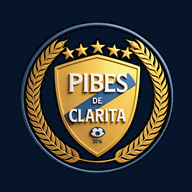
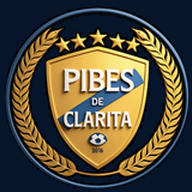
Add files via upload

diff --git a/index.html b/index.html
@@ -6,7 +6,7 @@
 <title>Los Pibes de Clarita | Pasión que nos une</title>
 <link rel="preconnect" href="https://fonts.googleapis.com"><link rel="preconnect" href="https://fonts.gstatic.com" crossorigin><link href="https://fonts.googleapis.com/css2?family=Barlow+Condensed:wght@500;600;700;800;900&family=DM+Sans:wght@400;500;600;700&display=swap" rel="stylesheet">
 <style>
-:root{--navy:#07152b;--blue:#0756c9;--blue2:#0879ff;--gold:#f4ba38;--cream:#f5f6f8;--ink:#121a29;--muted:#758096}*{box-sizing:border-box}html{scroll-behavior:smooth}body{margin:0;font-family:'DM Sans',sans-serif;color:var(--ink);background:#fff}body:after{content:"";position:fixed;inset:0;background:url("images/escudo-oficial.png") center 48%/min(76vw,560px) auto no-repeat;opacity:.09;pointer-events:none;z-index:5}a{color:inherit;text-decoration:none}.topline{height:36px;background:var(--gold);display:flex;align-items:center;justify-content:center;font-size:11px;font-weight:800;letter-spacing:.16em;text-transform:uppercase}.topline span{margin:0 10px}.nav{height:84px;background:var(--navy);color:white;display:flex;align-items:center;justify-content:space-between;padding:0 max(calc((100% - 1200px)/2),5%);position:sticky;top:0;z-index:9}.brand{display:flex;align-items:center;gap:11px}.crest{width:78px;height:78px;border-radius:50%;border:0;background:transparent;display:grid;place-items:center;box-shadow:none;font-size:25px;overflow:hidden}.crest img{width:100%;height:100%;object-fit:contain;object-position:center center;border-radius:0}.brandname{font:800 32px 'Barlow Condensed';line-height:.9;letter-spacing:.03em;color:transparent!important;background:linear-gradient(110deg,#a16b00 0%,#f4c430 18%,#fff3a0 30%,#c58b09 43%,#ffe45a 58%,#986300 72%,#fff1a0 86%,#c28700 100%);background-clip:text;-webkit-background-clip:text;-webkit-text-fill-color:transparent;filter:drop-shadow(0 1px 1px #0008)}.brandname small{display:block;color:transparent!important;background:linear-gradient(110deg,#a16b00 0%,#f4c430 18%,#fff3a0 30%,#c58b09 43%,#ffe45a 58%,#986300 72%,#fff1a0 86%,#c28700 100%);background-clip:text;-webkit-background-clip:text;-webkit-text-fill-color:transparent;filter:drop-shadow(0 1px 1px #0008);font:700 16px 'DM Sans';letter-spacing:.22em;margin-top:5px}.links{display:flex;gap:29px;align-items:center;font-size:12px;font-weight:700}.links a{opacity:.8;transition:.2s}.links a:hover{opacity:1;color:var(--gold)}.pill{background:var(--gold);color:var(--navy);padding:13px 19px;border-radius:2px;font-size:11px;font-weight:800;letter-spacing:.08em;text-transform:uppercase}.hero{height:640px;min-height:560px;position:relative;color:white;display:flex;align-items:center;overflow:hidden;background:linear-gradient(90deg,#06142cef 0%,#07152bba 44%,#07152b12 100%),url('images/8.jpeg') center 40%/cover}.hero:after{content:'';position:absolute;inset:0;background:linear-gradient(0deg,#06142b 0%,transparent 32%);pointer-events:none}.hero-content{width:min(1160px,90%);margin:0 auto;position:relative;z-index:1;padding-bottom:42px}.eyebrow{color:var(--gold);font-size:11px;font-weight:800;letter-spacing:.24em;text-transform:uppercase;display:flex;align-items:center;gap:12px}.eyebrow:before{content:'';width:28px;height:2px;background:var(--gold)}h1,h2,h3,p{margin-top:0}.hero h1{font:900 clamp(58px,8vw,108px)/.84 'Barlow Condensed';text-transform:uppercase;max-width:630px;margin:22px 0 22px;letter-spacing:-.025em}.hero h1 em{font-style:normal;color:var(--gold)}.hero p{font-size:15px;color:#d7deea;max-width:410px;line-height:1.75}.actions{display:flex;gap:12px;margin-top:29px}.button{padding:14px 19px;font-size:11px;font-weight:800;text-transform:uppercase;letter-spacing:.1em;background:var(--gold);color:var(--navy);display:inline-flex;align-items:center;gap:14px}.button.ghost{background:#ffffff12;color:white;border:1px solid #ffffff50}.hero-stats{position:absolute;z-index:2;bottom:29px;right:max(calc((100% - 1160px)/2),5%);display:flex;gap:30px}.stat{border-left:1px solid #ffffff55;padding-left:15px}.stat b{display:block;font:800 26px 'Barlow Condensed'}.stat small{font-size:9px;color:#c8d0df;letter-spacing:.15em;text-transform:uppercase}.ticker{background:var(--blue);color:white;padding:13px 5%;display:flex;justify-content:center;gap:38px;font:700 11px 'Barlow Condensed';letter-spacing:.16em;text-transform:uppercase}.ticker b{color:var(--gold)}section{padding:92px 5%}.wrap{max-width:1160px;margin:auto}.section-head{display:flex;align-items:end;justify-content:space-between;margin-bottom:38px}.section-head h2{font:800 clamp(38px,5vw,58px)/.95 'Barlow Condensed';text-transform:uppercase;margin:10px 0 0;letter-spacing:-.02em}.section-head p{color:var(--muted);font-size:12px;margin:0;max-width:280px;line-height:1.7}.history{background:var(--cream)}.history-grid{display:grid;grid-template-columns:1fr 1fr;gap:65px;align-items:center}.history-photo{height:440px;position:relative}.history-photo img{width:100%;height:100%;object-fit:cover}.year-tag{position:absolute;right:-18px;bottom:23px;background:var(--gold);padding:19px 25px;font:900 34px 'Barlow Condensed';color:var(--navy)}.history-copy .eyebrow{margin-bottom:18px}.history-copy h2{font:800 54px/.95 'Barlow Condensed';text-transform:uppercase;margin:0 0 20px}.history-copy p{font-size:14px;line-height:1.9;color:#626d7e}.history-copy .club-honors{display:flex;flex-wrap:wrap;gap:10px;margin:22px 0}.club-honor{padding:11px 14px;background:#fff;border:1px solid #e7eaf0;color:#18253b;font:800 15px 'Barlow Condensed';text-transform:uppercase}.club-honor span{display:block;color:#bd8618;font:700 9px 'DM Sans';letter-spacing:.1em;margin-bottom:4px}.note{border-left:3px solid var(--gold);padding:4px 0 4px 15px;font-size:11px;color:#8a94a4;margin-top:23px}.hall{background:var(--navy);color:white}.hall .section-head p{color:#aab4c5}.hall-grid{display:grid;grid-template-columns:repeat(3,1fr);gap:18px}.legend{background:#101f38;position:relative;padding:10px 10px 24px;overflow:hidden}.legend img{height:265px;width:100%;object-fit:cover;filter:saturate(.82)}.legend .index{position:absolute;top:22px;left:22px;background:var(--gold);color:var(--navy);font:800 13px 'Barlow Condensed';padding:7px 10px}.legend h3{font:700 25px 'Barlow Condensed';text-transform:uppercase;margin:17px 12px 5px}.legend p{color:#aab4c5;font-size:11px;margin:0 12px}.legend-intro{font-size:10px;color:#aab4c5;margin-top:-22px;margin-bottom:27px}.standings{background:white}.table-wrap{overflow-x:auto}.table{width:100%;border-collapse:collapse;min-width:620px}.table th{text-align:left;font-size:9px;letter-spacing:.13em;color:#8b95a4;text-transform:uppercase;padding:13px 15px;border-bottom:1px solid #e9edf2}.table td{padding:16px 15px;border-bottom:1px solid #edf0f4;font-size:12px;font-weight:600}.table td:not(:nth-child(2)){text-align:center}.table th:not(:nth-child(2)){text-align:center}.table tr:first-child{background:#f4f8ff}.table tr:first-child td:first-child{border-left:3px solid var(--blue2)}.team-cell{display:flex;align-items:center;gap:11px}.mini-crest-img{width:100%;height:100%;object-fit:contain}.mini-crest{height:27px;width:27px;border-radius:50%;display:grid;place-items:center;background:#e8f1ff;color:var(--blue);font-size:14px}.club-row{font-weight:800!important;color:var(--blue)}.sample{font-size:10px;color:#9aa3b0;margin-top:12px}.matches{background:#f4f6f9}.match-grid{display:grid;grid-template-columns:repeat(3,1fr);gap:16px}.match{background:white;padding:22px;border-top:3px solid var(--blue);box-shadow:0 7px 22px #12264a0b}.match-date{font-size:9px;font-weight:800;letter-spacing:.13em;color:var(--blue);text-transform:uppercase}.match-teams{display:flex;align-items:center;justify-content:space-between;margin:20px 0}.match-team{text-align:center;max-width:90px;font:700 15px 'Barlow Condensed';text-transform:uppercase}.match-team i{display:grid;place-items:center;width:45px;height:45px;background:#edf3fe;border-radius:50%;font-style:normal;font-size:21px;margin:0 auto 8px}.vs{font:800 14px 'Barlow Condensed';color:#9aa3b0}.match-info{border-top:1px solid #edf0f4;padding-top:13px;color:#7e899a;font-size:10px}.gallery{background:#fff}.gallery-grid{display:grid;grid-template-columns:repeat(4,1fr);grid-auto-rows:190px;gap:10px}.gallery-grid button{padding:0;border:0;cursor:pointer;overflow:hidden;background:#eee;position:relative}.gallery-grid button:first-child{grid-column:span 2;grid-row:span 2}.gallery-grid .crest-gallery{grid-column:span 2;grid-row:span 1;background:transparent}.gallery-grid .crest-gallery img{object-fit:contain;background:transparent}.gallery-grid img{width:100%;height:100%;object-fit:cover;transition:.4s}.gallery-grid button:hover img{transform:scale(1.06)}.gallery-grid button:after{content:'VER FOTO ↗';position:absolute;bottom:0;left:0;right:0;padding:12px;text-align:left;color:white;font-size:9px;font-weight:800;letter-spacing:.15em;background:linear-gradient(transparent,#07152bd9);opacity:0;transition:.2s}.gallery-grid button:hover:after{opacity:1}.footer{background:var(--navy);color:white;padding:46px 5% 24px}.footer-main{max-width:1160px;margin:auto;display:flex;justify-content:space-between;align-items:center;padding-bottom:35px;border-bottom:1px solid #ffffff20}.footer p{color:#aab4c5;font-size:11px;margin:8px 0 0}.copyright{max-width:1160px;margin:20px auto 0;color:#758096;font-size:9px;display:flex;justify-content:space-between}.lightbox{display:none;position:fixed;inset:0;background:#030a15ee;z-index:20;align-items:center;justify-content:center;padding:5%}.lightbox.show{display:flex}.lightbox img{max-width:95vw;max-height:88vh;object-fit:contain}.lightbox button{position:absolute;right:28px;top:20px;background:none;color:white;border:0;font-size:35px;cursor:pointer}.mobile-dock{display:none}.next-match{padding:48px 5%;background:#07152b;color:white}.next-match-wrap{max-width:920px;background:linear-gradient(110deg,#0c2a55,#0756c9);padding:28px 36px;display:grid;grid-template-columns:1fr 1.15fr;column-gap:30px;align-items:center;position:relative;overflow:hidden}.next-match-wrap:after{content:"";position:absolute;width:300px;height:300px;border:1px solid #ffffff16;border-radius:50%;right:-100px;top:-150px;box-shadow:0 0 0 28px #ffffff08,0 0 0 56px #ffffff06;pointer-events:none}.next-kicker{font:800 12px 'DM Sans';color:var(--gold);letter-spacing:.18em;text-transform:uppercase;grid-column:1/-1;margin-bottom:14px}.next-detail{display:flex;flex-direction:column;gap:5px;color:#dae4f3;font-size:11px}.next-detail time{font:700 20px 'Barlow Condensed';color:white;text-transform:uppercase}.next-teams{grid-column:2;grid-row:2/4;display:flex;align-items:center;justify-content:space-around}.next-team{display:flex;flex-direction:column;align-items:center;gap:8px;text-align:center;font:700 16px 'Barlow Condensed';text-transform:uppercase}.next-team img,.next-team i{width:52px;height:52px;object-fit:contain;display:grid;place-items:center;border-radius:50%;background:#ffffff18;font-size:25px;font-style:normal}.next-vs{color:var(--gold);font:900 25px 'Barlow Condensed'}.next-venue{font-size:10px;color:#bdcce0;margin-top:15px}.futsal{background:#07152b;color:#fff;padding:76px 5%}.futsal-grid{max-width:1160px;margin:auto;display:grid;grid-template-columns:1fr 1fr;gap:42px;align-items:center}.futsal-photo{height:380px;position:relative}.futsal-video-wrap{max-width:980px;margin:34px auto 0;display:grid;grid-template-columns:repeat(auto-fill,minmax(270px,350px));gap:18px;justify-content:start}.futsal-video-card{padding:13px;background:#101f38;border:1px solid #ffffff20}.futsal-video-wrap .eyebrow{margin-bottom:10px}.futsal-video-wrap video{display:block;width:100%;aspect-ratio:16/9;object-fit:contain;background:#020711;border:1px solid #ffffff24}.futsal-photo img{width:100%;height:100%;object-fit:cover}.futsal-copy h2{font:800 clamp(38px,5vw,58px)/.95 'Barlow Condensed';text-transform:uppercase;margin:14px 0}.futsal-copy p{font-size:13px;line-height:1.85;color:#bdc7d6}.futsal-tag{display:inline-block;margin-top:10px;color:var(--gold);font-size:10px;font-weight:800;letter-spacing:.16em;text-transform:uppercase}.champion-badge{display:block;margin-top:20px;padding:13px 16px;border-left:3px solid #FFD700;background:#ffffff12;color:#FFD700;font:800 17px 'Barlow Condensed';letter-spacing:.06em;text-transform:uppercase}.champion-badge small{display:block;margin-top:4px;color:#f5e7b2;font:700 10px 'DM Sans';letter-spacing:.1em}.sponsors{background:#f4f6f9;padding:64px 5%}.sponsors .section-head{margin-bottom:26px}.sponsor-grid{max-width:1000px;margin:auto;display:grid;grid-template-columns:repeat(4,1fr);gap:16px}.sponsor-card{background:#fff;padding:16px;border:1px solid #e8ebf0;text-align:center;display:flex;flex-direction:column;justify-content:space-between;min-height:205px}.sponsor-card img{width:100%;height:142px;object-fit:contain}.sponsor-card h3{font:700 17px "Barlow Condensed";text-transform:uppercase;color:#15233a;margin:12px 0 0}.sponsor-label{display:block;text-align:center;color:#788397;font-size:9px;font-weight:800;letter-spacing:.2em;text-transform:uppercase;margin:0 auto 19px}@media(max-width:760px){.futsal-grid{grid-template-columns:1fr;gap:28px}.futsal-photo{height:290px}.futsal-video-wrap{grid-template-columns:minmax(0,1fr);max-width:420px}.next-match{padding:28px 5%}.next-match-wrap{grid-template-columns:1fr;padding:22px}.next-teams{grid-column:1;grid-row:auto;margin-top:18px}.next-venue{margin-top:12px}.sponsor-grid{grid-template-columns:repeat(2,1fr);gap:10px}.sponsor-card{padding:10px;min-height:165px}.sponsor-card img{height:112px}.sponsor-card h3{font-size:15px}.sponsors{padding:55px 5%}}
+:root{--navy:#07152b;--blue:#0756c9;--blue2:#0879ff;--gold:#f4ba38;--cream:#f5f6f8;--ink:#121a29;--muted:#758096}*{box-sizing:border-box}html{scroll-behavior:smooth}body{margin:0;font-family:'DM Sans',sans-serif;color:var(--ink);background:#fff}body:after{content:"";position:fixed;inset:0;background:url("images/escudo-oficial.png") center 48%/min(76vw,560px) auto no-repeat;opacity:.16;pointer-events:none;z-index:5}a{color:inherit;text-decoration:none}.topline{height:36px;background:var(--gold);display:flex;align-items:center;justify-content:center;font-size:11px;font-weight:800;letter-spacing:.16em;text-transform:uppercase}.topline span{margin:0 10px}.nav{height:84px;background:var(--navy);color:white;display:flex;align-items:center;justify-content:space-between;padding:0 max(calc((100% - 1200px)/2),5%);position:sticky;top:0;z-index:9}.brand{display:flex;align-items:center;gap:11px}.crest{width:78px;height:78px;border-radius:50%;border:0;background:transparent;display:grid;place-items:center;box-shadow:none;font-size:25px;overflow:hidden}.crest img{width:100%;height:100%;object-fit:contain;object-position:center center;border-radius:0}.brandname{font:800 32px 'Barlow Condensed';line-height:.9;letter-spacing:.03em;color:transparent!important;background:linear-gradient(110deg,#fff8bd 0%,#ffe45c 18%,#fff3a0 34%,#f5c928 50%,#fff7b0 66%,#ffd700 82%,#fff1a0 100%);background-clip:text;-webkit-background-clip:text;-webkit-text-fill-color:transparent;filter:drop-shadow(0 0 5px #ffd70088) drop-shadow(0 1px 2px #000a)}.brandname small{display:block;color:transparent!important;background:linear-gradient(110deg,#fff8bd 0%,#ffe45c 18%,#fff3a0 34%,#f5c928 50%,#fff7b0 66%,#ffd700 82%,#fff1a0 100%);background-clip:text;-webkit-background-clip:text;-webkit-text-fill-color:transparent;filter:drop-shadow(0 0 5px #ffd70088) drop-shadow(0 1px 2px #000a);font:700 16px 'DM Sans';letter-spacing:.22em;margin-top:5px}.links{display:flex;gap:29px;align-items:center;font-size:12px;font-weight:700}.links a{opacity:.8;transition:.2s}.links a:hover{opacity:1;color:var(--gold)}.pill{background:var(--gold);color:var(--navy);padding:13px 19px;border-radius:2px;font-size:11px;font-weight:800;letter-spacing:.08em;text-transform:uppercase}.hero{height:640px;min-height:560px;position:relative;color:white;display:flex;align-items:center;overflow:hidden;background:linear-gradient(90deg,#06142cef 0%,#07152bba 44%,#07152b12 100%),url('images/8.jpeg') center 40%/cover}.hero:after{content:'';position:absolute;inset:0;background:linear-gradient(0deg,#06142b 0%,transparent 32%);pointer-events:none}.hero-content{width:min(1160px,90%);margin:0 auto;position:relative;z-index:1;padding-bottom:42px}.eyebrow{color:var(--gold);font-size:11px;font-weight:800;letter-spacing:.24em;text-transform:uppercase;display:flex;align-items:center;gap:12px}.eyebrow:before{content:'';width:28px;height:2px;background:var(--gold)}h1,h2,h3,p{margin-top:0}.hero h1{font:900 clamp(58px,8vw,108px)/.84 'Barlow Condensed';text-transform:uppercase;max-width:630px;margin:22px 0 22px;letter-spacing:-.025em}.hero h1 em{font-style:normal;color:var(--gold)}.hero p{font-size:15px;color:#d7deea;max-width:410px;line-height:1.75}.actions{display:flex;gap:12px;margin-top:29px}.button{padding:14px 19px;font-size:11px;font-weight:800;text-transform:uppercase;letter-spacing:.1em;background:var(--gold);color:var(--navy);display:inline-flex;align-items:center;gap:14px}.button.ghost{background:#ffffff12;color:white;border:1px solid #ffffff50}.hero-stats{position:absolute;z-index:2;bottom:29px;right:max(calc((100% - 1160px)/2),5%);display:flex;gap:30px}.stat{border-left:1px solid #ffffff55;padding-left:15px}.stat b{display:block;font:800 26px 'Barlow Condensed'}.stat small{font-size:9px;color:#c8d0df;letter-spacing:.15em;text-transform:uppercase}.ticker{background:var(--blue);color:white;padding:13px 5%;display:flex;justify-content:center;gap:38px;font:700 11px 'Barlow Condensed';letter-spacing:.16em;text-transform:uppercase}.ticker b{color:var(--gold)}section{padding:92px 5%}.wrap{max-width:1160px;margin:auto}.section-head{display:flex;align-items:end;justify-content:space-between;margin-bottom:38px}.section-head h2{font:800 clamp(38px,5vw,58px)/.95 'Barlow Condensed';text-transform:uppercase;margin:10px 0 0;letter-spacing:-.02em}.section-head p{color:var(--muted);font-size:12px;margin:0;max-width:280px;line-height:1.7}.history{background:var(--cream)}.history-grid{display:grid;grid-template-columns:1fr 1fr;gap:65px;align-items:center}.history-photo{height:440px;position:relative}.history-photo img{width:100%;height:100%;object-fit:cover}.year-tag{position:absolute;right:12px;bottom:12px;background:var(--gold);padding:19px 25px;font:900 34px 'Barlow Condensed';color:var(--navy)}.futsal-photo .year-tag{right:12px;bottom:12px}.history-copy .eyebrow{margin-bottom:18px}.history-copy h2{font:800 54px/.95 'Barlow Condensed';text-transform:uppercase;margin:0 0 20px}.history-copy p{font-size:14px;line-height:1.9;color:#626d7e}.history-copy .club-honors{display:flex;flex-wrap:wrap;gap:10px;margin:22px 0}.club-honor{padding:11px 14px;background:#fff;border:1px solid #e7eaf0;color:#18253b;font:800 15px 'Barlow Condensed';text-transform:uppercase}.club-honor span{display:block;color:#bd8618;font:700 9px 'DM Sans';letter-spacing:.1em;margin-bottom:4px}.note{border-left:3px solid var(--gold);padding:4px 0 4px 15px;font-size:11px;color:#8a94a4;margin-top:23px}.hall{background:var(--navy);color:white}.hall .section-head p{color:#aab4c5}.hall-grid{display:grid;grid-template-columns:repeat(3,1fr);gap:18px}.legend{background:#101f38;position:relative;padding:10px 10px 24px;overflow:hidden}.legend img{height:265px;width:100%;object-fit:cover;filter:saturate(.82)}.legend .index{position:absolute;top:22px;left:22px;background:var(--gold);color:var(--navy);font:800 13px 'Barlow Condensed';padding:7px 10px}.legend h3{font:700 25px 'Barlow Condensed';text-transform:uppercase;margin:17px 12px 5px}.legend p{color:#aab4c5;font-size:11px;margin:0 12px}.legend-intro{font-size:10px;color:#aab4c5;margin-top:-22px;margin-bottom:27px}.standings{background:white}.table-wrap{overflow-x:auto}.table{width:100%;border-collapse:collapse;min-width:620px}.table th{text-align:left;font-size:9px;letter-spacing:.13em;color:#8b95a4;text-transform:uppercase;padding:13px 15px;border-bottom:1px solid #e9edf2}.table td{padding:16px 15px;border-bottom:1px solid #edf0f4;font-size:12px;font-weight:600}.table td:not(:nth-child(2)){text-align:center}.table th:not(:nth-child(2)){text-align:center}.table tr:first-child{background:#f4f8ff}.table tr:first-child td:first-child{border-left:3px solid var(--blue2)}.team-cell{display:flex;align-items:center;gap:11px}.mini-crest-img{width:100%;height:100%;object-fit:contain}.mini-crest{height:27px;width:27px;border-radius:50%;display:grid;place-items:center;background:#e8f1ff;color:var(--blue);font-size:14px}.club-row{font-weight:800!important;color:var(--blue)}.sample{font-size:10px;color:#9aa3b0;margin-top:12px}.matches{background:#f4f6f9}.match-grid{display:grid;grid-template-columns:repeat(3,1fr);gap:16px}.match{background:white;padding:22px;border-top:3px solid var(--blue);box-shadow:0 7px 22px #12264a0b}.match-date{font-size:9px;font-weight:800;letter-spacing:.13em;color:var(--blue);text-transform:uppercase}.match-teams{display:flex;align-items:center;justify-content:space-between;margin:20px 0}.match-team{text-align:center;max-width:90px;font:700 15px 'Barlow Condensed';text-transform:uppercase}.match-team i{display:grid;place-items:center;width:45px;height:45px;background:#edf3fe;border-radius:50%;font-style:normal;font-size:21px;margin:0 auto 8px}.vs{font:800 14px 'Barlow Condensed';color:#9aa3b0}.match-info{border-top:1px solid #edf0f4;padding-top:13px;color:#7e899a;font-size:10px}.gallery{background:#fff}.gallery-grid{display:grid;grid-template-columns:repeat(4,1fr);grid-auto-rows:190px;gap:10px}.gallery-grid button{padding:0;border:0;cursor:pointer;overflow:hidden;background:#eee;position:relative}.gallery-grid button:first-child{grid-column:span 2;grid-row:span 2}.gallery-grid .crest-gallery{grid-column:span 2;grid-row:span 1;background:transparent}.gallery-grid .crest-gallery img{object-fit:contain;background:transparent}.gallery-grid img{width:100%;height:100%;object-fit:cover;transition:.4s}.gallery-grid button:hover img{transform:scale(1.06)}.gallery-grid button:after{content:'VER FOTO ↗';position:absolute;bottom:0;left:0;right:0;padding:12px;text-align:left;color:white;font-size:9px;font-weight:800;letter-spacing:.15em;background:linear-gradient(transparent,#07152bd9);opacity:0;transition:.2s}.gallery-grid button:hover:after{opacity:1}.footer{background:var(--navy);color:white;padding:46px 5% 24px}.footer-main{max-width:1160px;margin:auto;display:flex;justify-content:space-between;align-items:center;padding-bottom:35px;border-bottom:1px solid #ffffff20}.footer p{color:#aab4c5;font-size:11px;margin:8px 0 0}.copyright{max-width:1160px;margin:20px auto 0;color:#758096;font-size:9px;display:flex;justify-content:space-between}.lightbox{display:none;position:fixed;inset:0;background:#030a15ee;z-index:20;align-items:center;justify-content:center;padding:5%}.lightbox.show{display:flex}.lightbox img{max-width:95vw;max-height:88vh;object-fit:contain}.lightbox button{position:absolute;right:28px;top:20px;background:none;color:white;border:0;font-size:35px;cursor:pointer}.mobile-dock{display:none}.next-match{padding:48px 5%;background:#07152b;color:white}.next-match-wrap{max-width:920px;background:linear-gradient(110deg,#0c2a55,#0756c9);padding:28px 36px;display:grid;grid-template-columns:1fr 1.15fr;column-gap:30px;align-items:center;position:relative;overflow:hidden}.next-match-wrap:after{content:"";position:absolute;width:300px;height:300px;border:1px solid #ffffff16;border-radius:50%;right:-100px;top:-150px;box-shadow:0 0 0 28px #ffffff08,0 0 0 56px #ffffff06;pointer-events:none}.next-kicker{font:800 12px 'DM Sans';color:var(--gold);letter-spacing:.18em;text-transform:uppercase;grid-column:1/-1;margin-bottom:14px}.next-detail{display:flex;flex-direction:column;gap:5px;color:#dae4f3;font-size:11px}.next-detail time{font:700 20px 'Barlow Condensed';color:white;text-transform:uppercase}.next-teams{grid-column:2;grid-row:2/4;display:flex;align-items:center;justify-content:space-around}.next-team{display:flex;flex-direction:column;align-items:center;gap:8px;text-align:center;font:700 16px 'Barlow Condensed';text-transform:uppercase}.next-team img,.next-team i{width:52px;height:52px;object-fit:contain;display:grid;place-items:center;border-radius:50%;background:#ffffff18;font-size:25px;font-style:normal}.next-vs{color:var(--gold);font:900 25px 'Barlow Condensed'}.next-venue{font-size:10px;color:#bdcce0;margin-top:15px}.futsal{background:#07152b;color:#fff;padding:76px 5%}.futsal-grid{max-width:1160px;margin:auto;display:grid;grid-template-columns:1fr 1fr;gap:42px;align-items:center}.futsal-photo{height:380px;position:relative}.futsal-video-wrap{max-width:980px;margin:34px auto 0;display:grid;grid-template-columns:repeat(auto-fill,minmax(270px,350px));gap:18px;justify-content:start}.futsal-video-card{padding:13px;background:#101f38;border:1px solid #ffffff20}.futsal-video-wrap .eyebrow{margin-bottom:10px}.futsal-video-wrap video{display:block;width:100%;aspect-ratio:16/9;object-fit:contain;background:#020711;border:1px solid #ffffff24}.futsal-photo img{width:100%;height:100%;object-fit:cover}.futsal-copy h2{font:800 clamp(38px,5vw,58px)/.95 'Barlow Condensed';text-transform:uppercase;margin:14px 0}.futsal-copy p{font-size:13px;line-height:1.85;color:#bdc7d6}.futsal-tag{display:inline-block;margin-top:10px;color:var(--gold);font-size:10px;font-weight:800;letter-spacing:.16em;text-transform:uppercase}.champion-badge{display:block;margin-top:20px;padding:13px 16px;border-left:3px solid #FFD700;background:#ffffff12;color:#FFD700;font:800 17px 'Barlow Condensed';letter-spacing:.06em;text-transform:uppercase}.champion-badge small{display:block;margin-top:4px;color:#f5e7b2;font:700 10px 'DM Sans';letter-spacing:.1em}.sponsors{background:#f4f6f9;padding:64px 5%}.sponsors .section-head{margin-bottom:26px}.sponsor-grid{max-width:1000px;margin:auto;display:grid;grid-template-columns:repeat(4,1fr);gap:16px}.sponsor-card{background:#fff;padding:16px;border:1px solid #e8ebf0;text-align:center;display:flex;flex-direction:column;justify-content:space-between;min-height:205px}.sponsor-card img{width:100%;height:142px;object-fit:contain}.sponsor-card h3{font:700 17px "Barlow Condensed";text-transform:uppercase;color:#15233a;margin:12px 0 0}.sponsor-label{display:block;text-align:center;color:#788397;font-size:9px;font-weight:800;letter-spacing:.2em;text-transform:uppercase;margin:0 auto 19px}@media(max-width:760px){.futsal-grid{grid-template-columns:1fr;gap:28px}.futsal-photo{height:290px}.futsal-video-wrap{grid-template-columns:minmax(0,1fr);max-width:420px}.next-match{padding:28px 5%}.next-match-wrap{grid-template-columns:1fr;padding:22px}.next-teams{grid-column:1;grid-row:auto;margin-top:18px}.next-venue{margin-top:12px}.sponsor-grid{grid-template-columns:repeat(2,1fr);gap:10px}.sponsor-card{padding:10px;min-height:165px}.sponsor-card img{height:112px}.sponsor-card h3{font-size:15px}.sponsors{padding:55px 5%}}
 @media(max-width:760px){body{padding-bottom:68px}.topline{height:30px;font-size:9px}.nav{height:64px;padding:0 5%}.links{gap:14px}.links a:not(.pill){display:none}.links .pill{padding:11px 12px;font-size:9px}.brandname{font-size:25px}.brandname small{font-size:13px}.crest{width:62px;height:62px}.hero{height:570px;min-height:0;background-position:58% center}.hero-content{padding-bottom:40px}.hero-stats{left:5%;right:auto;gap:17px}.history-grid{grid-template-columns:1fr;gap:32px}.history-photo{height:320px;margin-right:14px}.hall-grid,.match-grid{grid-template-columns:1fr}.legend img{height:300px}.gallery-grid{grid-template-columns:repeat(2,1fr);grid-auto-rows:150px}.gallery-grid button:first-child{grid-column:span 2;grid-row:span 1}.gallery-grid .crest-gallery{grid-column:span 2;grid-row:span 1}.section-head{display:block}.section-head p{margin-top:14px}.ticker{gap:15px;font-size:9px;flex-wrap:wrap}.footer-main{align-items:flex-start;gap:20px;flex-direction:column}.copyright{gap:10px;flex-direction:column}.hero h1{font-size:68px}.mobile-dock{position:fixed;display:grid;grid-template-columns:repeat(7,1fr);bottom:0;left:0;right:0;z-index:10;background:#07152bf5;padding:8px 5px max(8px,env(safe-area-inset-bottom));border-top:1px solid #ffffff20;backdrop-filter:blur(12px)}.mobile-dock a{display:flex;flex-direction:column;align-items:center;gap:3px;color:#FFD700;font-size:9px;font-weight:700}.mobile-dock a span{font-size:18px}.mobile-dock a:hover{color:#FFE76A}section{padding:68px 5%}.match{padding:18px}.lightbox{padding:3%}}
 </style></head>
 <body>
@@ -18,7 +18,7 @@
 <section class="futsal" id="futsal"><div class="futsal-grid"><div class="futsal-photo"><img src="images/4.jpeg" alt="Plantel de Los Pibes de Clarita en la cancha cubierta"><span class="year-tag">LOS PIBES</span></div><div class="futsal-copy"><div class="eyebrow">Otra forma de vivir el fútbol</div><h2>Equipo de<br>fútbol sala</h2><p>Los Pibes de Clarita también llevan sus colores a la cancha cubierta. Velocidad, técnica y trabajo en equipo se encuentran en cada jugada.</p><span class="futsal-tag">Azul y blanco · Una sola familia</span><div class="champion-badge">🏆 Actuales campeones 2026<br><small>Liga Parroquial Aloag · Fútbol Sala</small></div></div></div><div class="futsal-video-wrap"><article class="futsal-video-card"><div class="eyebrow">Videos de fútbol sala</div><video controls playsinline preload="metadata" poster="images/4.jpeg" aria-label="Video del equipo de fútbol sala de Los Pibes de Clarita"><source src="videos/futsal.mp4" type="video/mp4">Tu navegador no puede reproducir este video.</video></article></div></section></section><section class="hall" id="leyendas"><div class="wrap"><div class="section-head"><div><div class="eyebrow">Los que dejan huella</div><h2>Salón de la fama</h2></div><p>Las personas que representan el corazón, el esfuerzo y la historia de Los Pibes.</p></div><p class="legend-intro">Homenaje colectivo a jugadores, familias e hinchada. Agrega nombres cuando quieras personalizar esta sección.</p><div class="hall-grid"><article class="legend"><span class="index">01 · EL EQUIPO</span><img src="images/4.jpeg" alt="Plantel reunido en la cancha"><h3>Los que defienden estos colores</h3><p>Jugadores · Orgullo azul y blanco</p></article><article class="legend"><span class="index">02 · LA COMUNIDAD</span><img src="images/7.jpeg" alt="Jugadores junto a un referente de la comunidad"><h3>La familia de Clarita</h3><p>Comunidad · Siempre juntos</p></article><article class="legend"><span class="index">03 · LA HINCHADA</span><img src="images/6.jpeg" alt="Equipo y seguidores celebrando"><h3>La gente que nunca falla</h3><p>Hinchas · El jugador número doce</p></article></div></div></section>
 <section class="standings" id="tabla"><div class="wrap"><div class="section-head"><div><div class="eyebrow">Décima fecha · Máxima categoría</div><h2>Tabla de posiciones</h2></div><p>Clasificación oficial de máxima categoría tras la décima fecha. Los Pibes de Clarita ocupan el sexto puesto.</p></div><div class="table-wrap"><table class="table"><thead><tr><th>#</th><th>Equipo</th><th>PJ</th><th>G</th><th>E</th><th>P</th><th>GF</th><th>GC</th><th>DF</th><th>Pts</th></tr></thead><tbody><tr><td>1</td><td><span class="team-cell"><span class="mini-crest">⚽</span>Shaddai</span></td><td>10</td><td>7</td><td>2</td><td>1</td><td>38</td><td>20</td><td>18</td><td>23</td></tr><tr><td>2</td><td><span class="team-cell"><span class="mini-crest">⚽</span>Dynamo Jr</span></td><td>10</td><td>6</td><td>3</td><td>1</td><td>33</td><td>14</td><td>19</td><td>21</td></tr><tr><td>3</td><td><span class="team-cell"><span class="mini-crest">⚽</span>El Nacional Jr</span></td><td>10</td><td>6</td><td>3</td><td>1</td><td>33</td><td>17</td><td>16</td><td>21</td></tr><tr><td>4</td><td><span class="team-cell"><span class="mini-crest">⚽</span>Spencer</span></td><td>10</td><td>7</td><td>0</td><td>3</td><td>35</td><td>29</td><td>6</td><td>21</td></tr><tr><td>5</td><td><span class="team-cell"><span class="mini-crest">⚽</span>Interjuvenil</span></td><td>10</td><td>6</td><td>2</td><td>2</td><td>24</td><td>11</td><td>13</td><td>20</td></tr><tr><td>6</td><td><span class="team-cell club-row"><span class="mini-crest"><img class="mini-crest-img" src="images/escudo-oficial.png" alt=""></span>Pibes de Clarita</span></td><td>10</td><td>4</td><td>4</td><td>2</td><td>29</td><td>17</td><td>12</td><td>16</td></tr><tr><td>7</td><td><span class="team-cell"><span class="mini-crest">⚽</span>Rosario Central</span></td><td>10</td><td>4</td><td>3</td><td>3</td><td>27</td><td>27</td><td>0</td><td>15</td></tr><tr><td>8</td><td><span class="team-cell"><span class="mini-crest">⚽</span>Orellana Jr</span></td><td>10</td><td>5</td><td>0</td><td>5</td><td>26</td><td>30</td><td>-4</td><td>15</td></tr><tr><td>9</td><td><span class="team-cell"><span class="mini-crest">⚽</span>Aloag</span></td><td>10</td><td>4</td><td>2</td><td>4</td><td>30</td><td>16</td><td>14</td><td>14</td></tr><tr><td>10</td><td><span class="team-cell"><span class="mini-crest">⚽</span>Los Tigres</span></td><td>10</td><td>3</td><td>2</td><td>5</td><td>18</td><td>23</td><td>-5</td><td>11</td></tr><tr><td>11</td><td><span class="team-cell"><span class="mini-crest">⚽</span>River Plate</span></td><td>10</td><td>3</td><td>2</td><td>5</td><td>19</td><td>30</td><td>-11</td><td>11</td></tr><tr><td>12</td><td><span class="team-cell"><span class="mini-crest">⚽</span>Cardinals</span></td><td>10</td><td>2</td><td>1</td><td>7</td><td>25</td><td>30</td><td>-5</td><td>7</td></tr><tr><td>13</td><td><span class="team-cell"><span class="mini-crest">⚽</span>Arsenal</span></td><td>10</td><td>1</td><td>0</td><td>9</td><td>18</td><td>59</td><td>-41</td><td>3</td></tr><tr><td>14</td><td><span class="team-cell"><span class="mini-crest">⚽</span>J.B</span></td><td>10</td><td>0</td><td>0</td><td>10</td><td>10</td><td>42</td><td>-32</td><td>0</td></tr></tbody></table></div><p class="sample">Tabla oficial de máxima categoría, décima fecha. <a href="images/13.jpeg" target="_blank" rel="noreferrer" style="color:#0756c9;font-weight:700">Ver imagen original ↗</a></p></div></section>
 <section class="next-match" id="siguiente"><div class="wrap next-match-wrap"><div class="next-kicker">Siguiente partido · Mañana</div><div class="next-detail"><time datetime="2026-10-04">Domingo 4 de octubre de 2026</time><span>14:00 · Estadio Camilo Cevallos · Aloag</span></div><div class="next-teams"><div class="next-team"><img src="images/escudo-oficial.png" alt="Escudo Los Pibes de Clarita"><strong>Los Pibes<br>de Clarita</strong></div><span class="next-vs">VS</span><div class="next-team"><i>⚽</i><strong>Spencer</strong></div></div><div class="next-venue">12.ª fecha · Vocal: Interjuvenil</div></div></section><section class="matches" id="partidos"><div class="wrap"><div class="section-head"><div><div class="eyebrow">Fixture oficial · primera etapa</div><h2>Partidos de Los Pibes</h2></div><p>Las 13 fechas de Los Pibes en la primera etapa de máxima categoría.</p></div><div class="match-grid"><article class="match"><div class="match-date">FECHA 01 · DÍA Y HORA POR CONFIRMAR</div><div class="match-teams"><div class="match-team"><i><img src="images/escudo-oficial.png" alt="" style="width:38px;height:38px;object-fit:contain"></i>Pibes de Clarita</div><span class="vs">VS</span><div class="match-team"><i>⚽</i>El Nacional Jr</div></div><div class="match-info">Calendario por confirmar</div></article><article class="match"><div class="match-date">FECHA 02 · DÍA Y HORA POR CONFIRMAR</div><div class="match-teams"><div class="match-team"><i><img src="images/escudo-oficial.png" alt="" style="width:38px;height:38px;object-fit:contain"></i>Pibes de Clarita</div><span class="vs">VS</span><div class="match-team"><i>⚽</i>J.B</div></div><div class="match-info">Calendario por confirmar</div></article><article class="match"><div class="match-date">FECHA 03 · DÍA Y HORA POR CONFIRMAR</div><div class="match-teams"><div class="match-team"><i><img src="images/escudo-oficial.png" alt="" style="width:38px;height:38px;object-fit:contain"></i>Pibes de Clarita</div><span class="vs">VS</span><div class="match-team"><i>⚽</i>Orellana Jr</div></div><div class="match-info">Calendario por confirmar</div></article><article class="match"><div class="match-date">FECHA 04 · DÍA Y HORA POR CONFIRMAR</div><div class="match-teams"><div class="match-team"><i><img src="images/escudo-oficial.png" alt="" style="width:38px;height:38px;object-fit:contain"></i>Pibes de Clarita</div><span class="vs">VS</span><div class="match-team"><i>⚽</i>River Plate</div></div><div class="match-info">Calendario por confirmar</div></article><article class="match"><div class="match-date">FECHA 05 · DÍA Y HORA POR CONFIRMAR</div><div class="match-teams"><div class="match-team"><i><img src="images/escudo-oficial.png" alt="" style="width:38px;height:38px;object-fit:contain"></i>Pibes de Clarita</div><span class="vs">VS</span><div class="match-team"><i>⚽</i>Shaddai</div></div><div class="match-info">Calendario por confirmar</div></article><article class="match"><div class="match-date">FECHA 06 · DÍA Y HORA POR CONFIRMAR</div><div class="match-teams"><div class="match-team"><i><img src="images/escudo-oficial.png" alt="" style="width:38px;height:38px;object-fit:contain"></i>Pibes de Clarita</div><span class="vs">VS</span><div class="match-team"><i>⚽</i>Arsenal</div></div><div class="match-info">Calendario por confirmar</div></article><article class="match"><div class="match-date">FECHA 07 · DÍA Y HORA POR CONFIRMAR</div><div class="match-teams"><div class="match-team"><i><img src="images/escudo-oficial.png" alt="" style="width:38px;height:38px;object-fit:contain"></i>Pibes de Clarita</div><span class="vs">VS</span><div class="match-team"><i>⚽</i>Dynamo Jr</div></div><div class="match-info">Calendario por confirmar</div></article><article class="match"><div class="match-date">FECHA 08 · DÍA Y HORA POR CONFIRMAR</div><div class="match-teams"><div class="match-team"><i><img src="images/escudo-oficial.png" alt="" style="width:38px;height:38px;object-fit:contain"></i>Pibes de Clarita</div><span class="vs">VS</span><div class="match-team"><i>⚽</i>Interjuvenil</div></div><div class="match-info">Calendario por confirmar</div></article><article class="match"><div class="match-date">FECHA 09 · DOMINGO 13 SEPTIEMBRE · FECHA JUGADA</div><div class="match-teams"><div class="match-team"><i><img src="images/escudo-oficial.png" alt="" style="width:38px;height:38px;object-fit:contain"></i>Pibes de Clarita</div><span class="vs">VS</span><div class="match-team"><i>⚽</i>Los Tigres</div></div><div class="match-info">13 sep 2026 · 16:00 · Camilo Cevallos · resultado no publicado</div></article><article class="match"><div class="match-date">FECHA 10 · DÍA Y HORA POR CONFIRMAR</div><div class="match-teams"><div class="match-team"><i><img src="images/escudo-oficial.png" alt="" style="width:38px;height:38px;object-fit:contain"></i>Pibes de Clarita</div><span class="vs">VS</span><div class="match-team"><i>⚽</i>Aloag</div></div><div class="match-info">Calendario por confirmar</div></article><article class="match"><div class="match-date">FECHA 11 · DÍA Y HORA POR CONFIRMAR</div><div class="match-teams"><div class="match-team"><i><img src="images/escudo-oficial.png" alt="" style="width:38px;height:38px;object-fit:contain"></i>Pibes de Clarita</div><span class="vs">VS</span><div class="match-team"><i>⚽</i>Rosario Central</div></div><div class="match-info">Calendario por confirmar</div></article><article class="match"><div class="match-date">FECHA 12 · DOMINGO 4 OCTUBRE · PRÓXIMO PARTIDO</div><div class="match-teams"><div class="match-team"><i><img src="images/escudo-oficial.png" alt="" style="width:38px;height:38px;object-fit:contain"></i>Pibes de Clarita</div><span class="vs">VS</span><div class="match-team"><i>⚽</i>Spencer</div></div><div class="match-info">4 oct 2026 · 14:00 · Camilo Cevallos · Aloag</div></article><article class="match"><div class="match-date">FECHA 13 · DÍA Y HORA POR CONFIRMAR</div><div class="match-teams"><div class="match-team"><i><img src="images/escudo-oficial.png" alt="" style="width:38px;height:38px;object-fit:contain"></i>Pibes de Clarita</div><span class="vs">VS</span><div class="match-team"><i>⚽</i>Cardinals</div></div><div class="match-info">Calendario por confirmar</div></article></div><p class="sample">Fixture oficial de la primera etapa. La programación compartida confirma fecha, hora y cancha para las fechas 9 y 12; para las demás, el calendario específico está por confirmar. <a href="images/fixture-primera-etapa.jpeg" target="_blank" rel="noreferrer" style="color:#0756c9;font-weight:700">Ver fixture original ↗</a></p></div></section>
-<section class="gallery" id="galeria"><div class="wrap"><div class="section-head"><div><div class="eyebrow">Momentos que nos unen</div><h2>Galería del club</h2></div><p>La pasión azul y blanca, en cada cancha y junto a nuestra gente.</p></div><div class="gallery-grid"><button data-img="images/1.jpeg"><img src="images/1.jpeg" alt="Plantel reunido en el campo"></button><button data-img="images/2.jpeg"><img src="images/2.jpeg" alt="Equipo junto a su bandera"></button><button data-img="images/4.jpeg"><img src="images/4.jpeg" alt="Plantel en el coliseo"></button><button data-img="images/6.jpeg"><img src="images/6.jpeg" alt="Celebración en equipo"></button><button data-img="images/7.jpeg"><img src="images/7.jpeg" alt="Jugadores y comunidad"></button><button data-img="images/8.jpeg"><img src="images/8.jpeg" alt="Equipo campeón con su trofeo"></button><button data-img="images/3.jpeg"><img src="images/3.jpeg" alt="El equipo con su bandera en la cancha"></button></div></div></section></main><section class="sponsors" id="auspiciantes"><div class="wrap"><div class="section-head"><div><div class="eyebrow">Gracias por estar con el equipo</div><h2>Auspiciantes oficiales</h2></div><p>Marcas y emprendimientos que apoyan a Los Pibes de Clarita.</p></div><span class="sponsor-label">El club agradece su apoyo</span><div class="sponsor-grid"><article class="sponsor-card"><img src="images/a.jpeg" alt="Logo Adidas"><h3>Adidas</h3></article><article class="sponsor-card"><img src="images/b.jpeg" alt="La Masía Cancha Sintética"><h3>La Masía · Cancha Sintética</h3></article><article class="sponsor-card"><img src="images/c.jpeg" alt="Cocción al Barril Rey Lechón"><h3>Cocción al Barril · Rey Lechón</h3></article><article class="sponsor-card"><img src="images/d.jpeg" alt="C&C Media Group"><h3>C&amp;C Media Group</h3></article></div></div></section><footer class="footer"><div class="footer-main"><a class="brand" href="#inicio"><span class="crest"><img src="images/escudo-oficial.png" alt="Escudo Los Pibes de Clarita"></span><span class="brandname">LOS PIBES<small>DE CLARITA</small></span></a><div><div class="eyebrow">Una camiseta. Una familia.</div><p>Con orgullo, desde Clarita.</p></div><a class="button" href="#inicio">Volver arriba ↑</a></div><div class="copyright"><span>© Los Pibes de Clarita · Sitio del club</span><span>Hecho con pasión en Clarita ⚽</span></div></footer>
+<section class="gallery" id="galeria"><div class="wrap"><div class="section-head"><div><div class="eyebrow">Momentos que nos unen</div><h2>Galería del club</h2></div><p>La pasión azul y blanca, en cada cancha y junto a nuestra gente.</p></div><div class="gallery-grid"><button data-img="images/1.jpeg"><img src="images/1.jpeg" alt="Plantel reunido en el campo"></button><button data-img="images/2.jpeg"><img src="images/2.jpeg" alt="Equipo junto a su bandera"></button><button data-img="images/4.jpeg"><img src="images/4.jpeg" alt="Plantel en el coliseo"></button><button data-img="images/6.jpeg"><img src="images/6.jpeg" alt="Celebración en equipo"></button><button data-img="images/7.jpeg"><img src="images/7.jpeg" alt="Jugadores y comunidad"></button><button data-img="images/8.jpeg"><img src="images/8.jpeg" alt="Equipo campeón con su trofeo"></button><button data-img="images/3.jpeg"><img src="images/3.jpeg" alt="El equipo con su bandera en la cancha"></button></div></div></section></main><section class="sponsors" id="auspiciantes"><div class="wrap"><div class="section-head"><div><div class="eyebrow">Gracias por estar con el equipo</div><h2>Auspiciantes oficiales</h2></div><p>Marcas y emprendimientos que apoyan a Los Pibes de Clarita.</p></div><span class="sponsor-label">El club agradece su apoyo</span><div class="sponsor-grid"><article class="sponsor-card"><img src="images/a.jpeg" alt="Logo Adidas"><h3>Adidas</h3></article><article class="sponsor-card"><img src="images/b.jpeg" alt="La Masía Cancha Sintética"><h3>La Masía · Cancha Sintética</h3></article><article class="sponsor-card"><img src="images/c.jpeg" alt="Cocción al Barril Rey Lechón"><h3>Cocción al Barril · Rey Lechón</h3></article><article class="sponsor-card"><img src="images/d.jpeg" alt="C&C Media Group"><h3>C&amp;C Media Group</h3></article></div></div></section><footer class="footer"><div class="footer-main"><a class="brand" href="#inicio"><span class="crest"><img src="images/escudo-oficial.png" alt="Escudo Los Pibes de Clarita"></span><span class="brandname">LOS PIBES<small>DE CLARITA</small></span></a><div><div class="eyebrow">Una camiseta. Una familia.</div><p>Con orgullo, Pibes de Clarita.</p></div><a class="button" href="#inicio">Volver arriba ↑</a></div><div class="copyright"><span>© Los Pibes de Clarita · Sitio del club</span><span>Hecho con pasión en Clarita ⚽</span></div></footer>
 <nav class="mobile-dock" aria-label="Navegación principal"><a href="#club"><span>🏠</span>Club</a><a href="#futsal"><span>🥅</span>Futsal</a><a href="#tabla"><span>🏆</span>Tabla</a><a href="#partidos"><span>⚽</span>Partidos</a><a href="#galeria"><span>📸</span>Fotos</a><a href="#leyendas"><span>⭐</span>Leyendas</a><a href="#auspiciantes"><span>🤝</span>Apoyan</a></nav><div class="lightbox" id="lightbox"><button aria-label="Cerrar">×</button><img src="" alt="Foto ampliada"></div>
 <script>
 const box=document.querySelector('#lightbox'),big=box.querySelector('img');

diff --git a/sw.js b/sw.js
@@ -1,4 +1,4 @@
-const CACHE = 'pibes-clarita-v13';
+const CACHE = 'pibes-clarita-v18';
 const FILES = ['./', './index.html', './manifest.webmanifest', './icons/club.svg', './icons/ios-icon.png', './icons/icon-192.png', './icons/icon-512.png', ...[1,2,3,4,5,6,7,8,11,12,13,14].map(n => './images/' + n + '.jpeg'), ...['a','b','c','d'].map(n => './images/' + n + '.jpeg'), './images/escudo-oficial.png', './images/fixture-primera-etapa.jpeg', './videos/futsal.mp4'];
 self.addEventListener('install', event => event.waitUntil((async()=>{const cache=await caches.open(CACHE);await Promise.all(FILES.map(async file=>{const response=await fetch(file,{cache:'reload'});if(response.ok)await cache.put(file,response)}));await self.skipWaiting()})()));
 self.addEventListener('activate', event => event.waitUntil((async()=>{const keys=await caches.keys();await Promise.all(keys.filter(key=>key!==CACHE).map(key=>caches.delete(key)));await self.clients.claim()})()));
